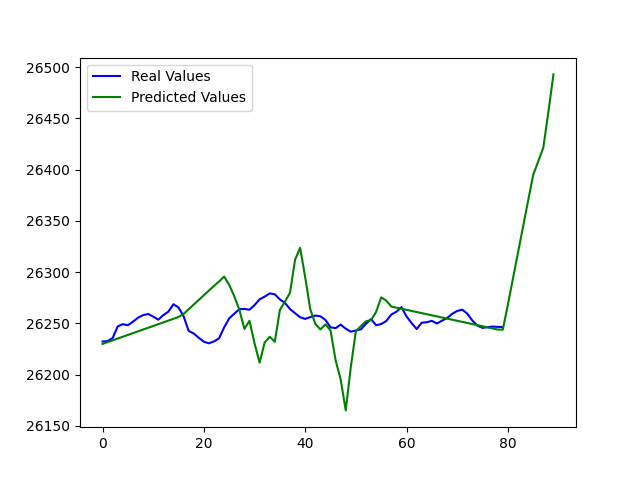
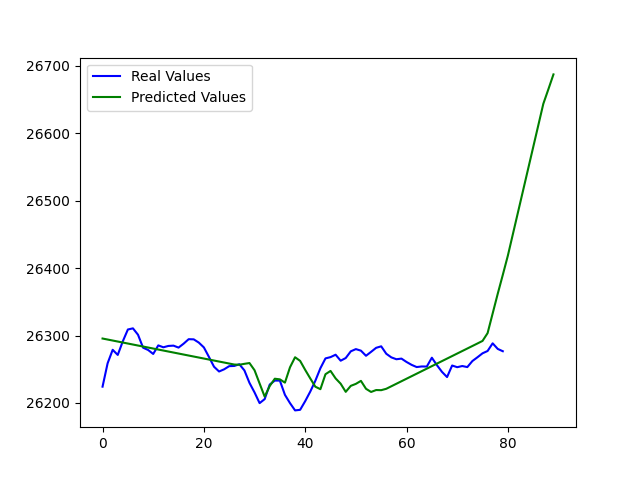
non working version heading into lstm land.

diff --git a/simple_timeseries.py b/simple_timeseries.py
@@ -5,6 +5,7 @@ import tensorflow as tf
 from tensorflow import keras
 
 from api import fetch_ohlcv_range, get_dates_and_data_from_latest_file
+from init_model import init_model
 from plot_chart import plot_chart
 from prep_data import prep_data
 from save_model import save_model
@@ -37,6 +38,9 @@ def prep_training_data(data):
     # Preprocess the data
     x_train = time
     y_train = values
+
+
+
 
     # Normalize the data
     x_train_norm = (x_train - np.mean(x_train)) / np.std(x_train)
@@ -77,25 +81,6 @@ def predict(values,model,x_train,y_train):
 def get_existing_model():
     model = keras.models.load_model('Model.h5')
     return model
-def init_model(features):
-    # model = keras.Sequential([
-    #         keras.layers.Dense(64, input_shape=[1]),
-    #         keras.layers.LeakyReLU(),
-    #         keras.layers.Dense(64),
-    #         keras.layers.LeakyReLU(),
-    #         keras.layers.Dense(units=len(features))
-    #     ])
-    model = keras.Sequential([
-        keras.layers.Dense(64, input_shape=[1]),
-        keras.layers.LeakyReLU(),
-        keras.layers.Dense(64),
-        keras.layers.LeakyReLU(),
-        keras.layers.Dense(units=len(features))
-    ])
-
-        # Compile the model
-    model.compile(optimizer='sgd', loss='mean_squared_error')
-    return model
 def train_model(model,x_train_norm,y_train_norm):
     m = model.fit(x_train_norm, y_train_norm, epochs=2000)
     save_model(model,"Model") 
@@ -114,7 +99,7 @@ def main():
         model = get_existing_model()
     except:
         # If the model does not exist, initialize a new one
-        model = init_model(features)
+        model = init_model(x_train,y_train)
         
     model = train_model(model,x_train_norm,y_train_norm)
     save_model(model,"model")

diff --git a/init_model.py b/init_model.py
@@ -1,0 +1,30 @@
+from tensorflow import keras
+
+
+def init_model(x_train,y_train):
+    # model = keras.Sequential([
+    #         keras.layers.Dense(64, input_shape=[1]),
+    #         keras.layers.LeakyReLU(),
+    #         keras.layers.Dense(64),
+    #         keras.layers.LeakyReLU(),
+    #         keras.layers.Dense(units=len(features))
+    #     ])
+    # model = keras.Sequential([
+    #     keras.layers.Dense(64, input_shape=[1]),
+    #     keras.layers.LeakyReLU(),
+    #     keras.layers.Dense(64),
+    #     keras.layers.LeakyReLU(),
+    #     keras.layers.Dense(units=len(y_train.columns))
+    # ])
+    # Define the LSTM model
+    inputs = keras.layers.Input(shape=(x_train.shape[0], y_train.shape[1]))
+    lstm_out = keras.layers.LSTM(32)(inputs)
+    outputs = keras.layers.Dense(1)(lstm_out)
+
+    model = keras.Model(inputs=inputs, outputs=outputs)
+    model.compile(optimizer=keras.optimizers.Adam(learning_rate=0.0001), loss="mse")
+    model.summary()
+
+        # Compile the model
+    model.compile(optimizer='sgd', loss='mean_squared_error')
+    return model
